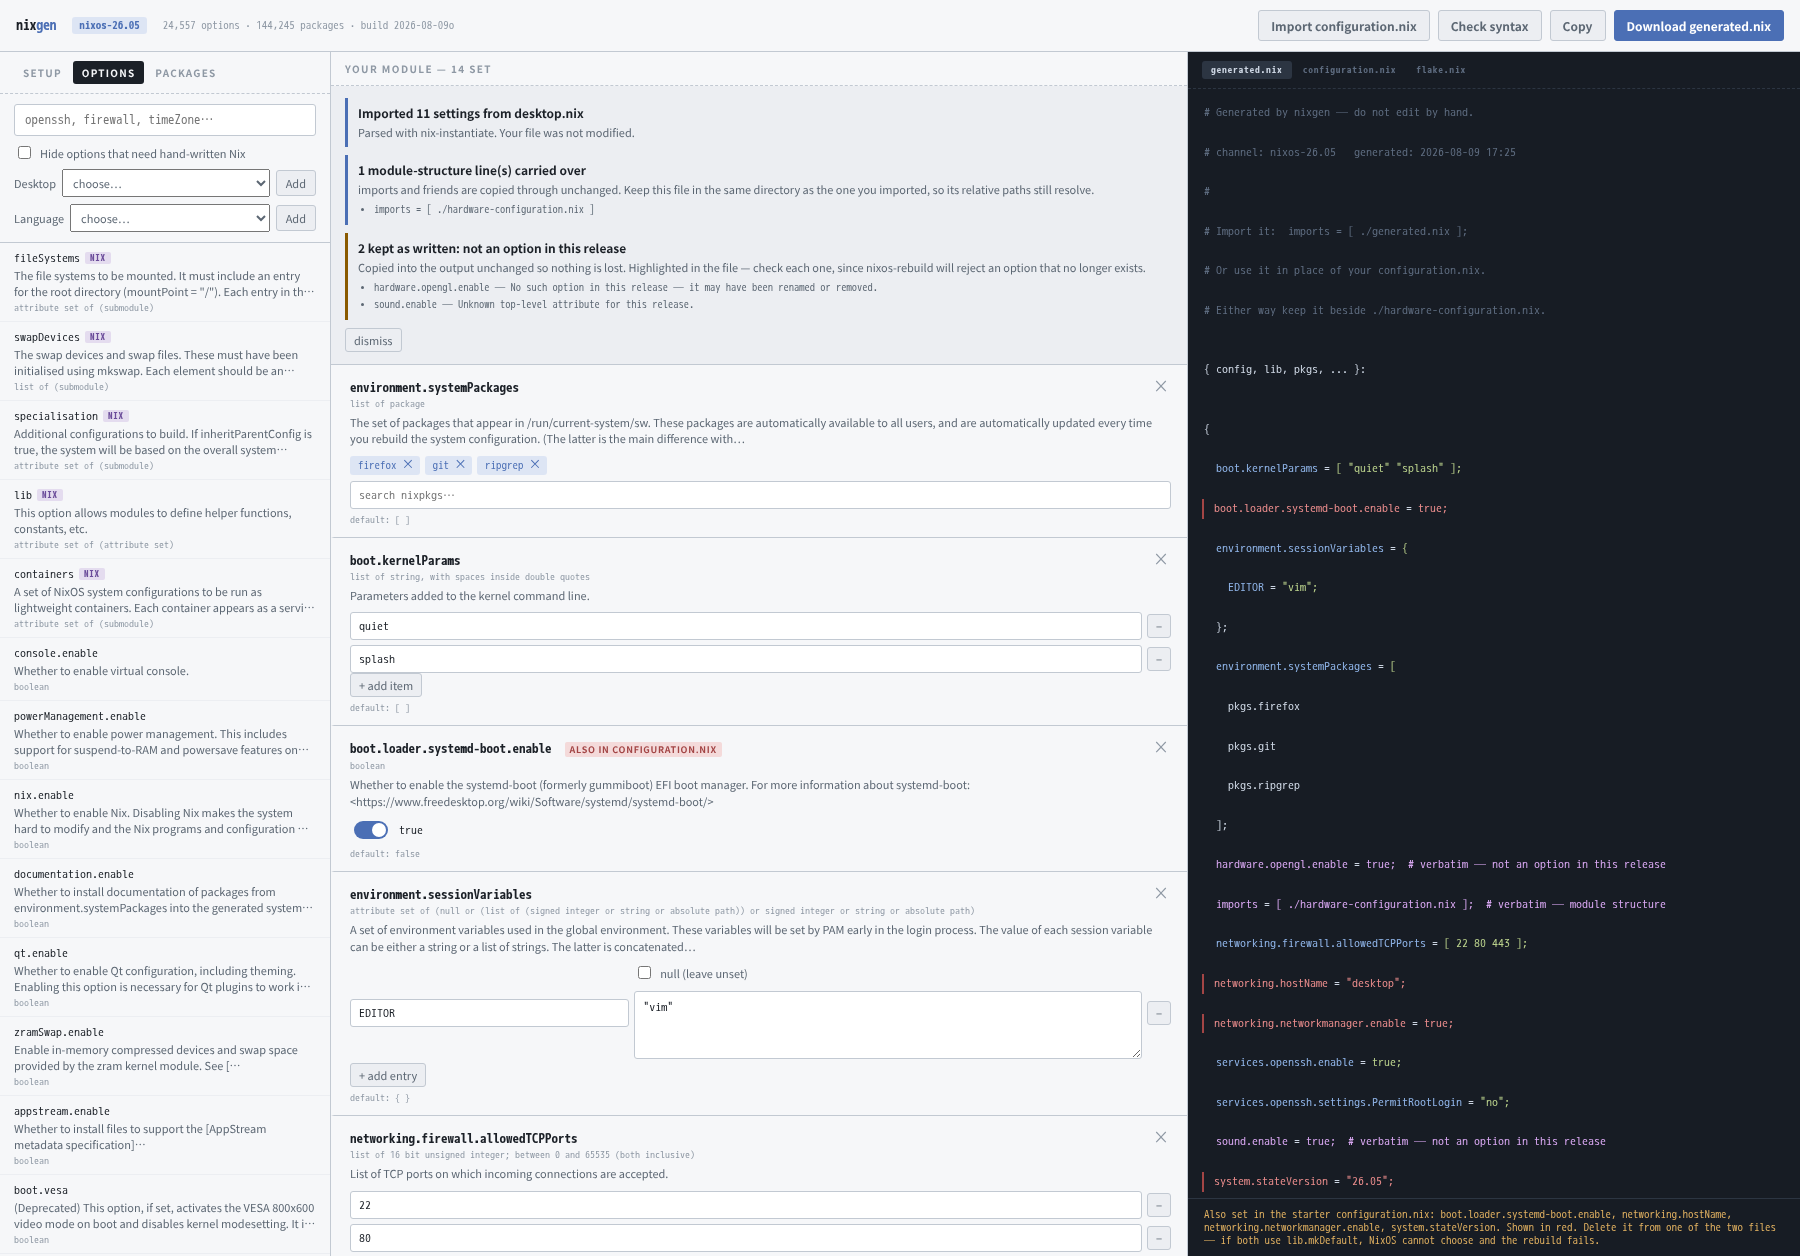
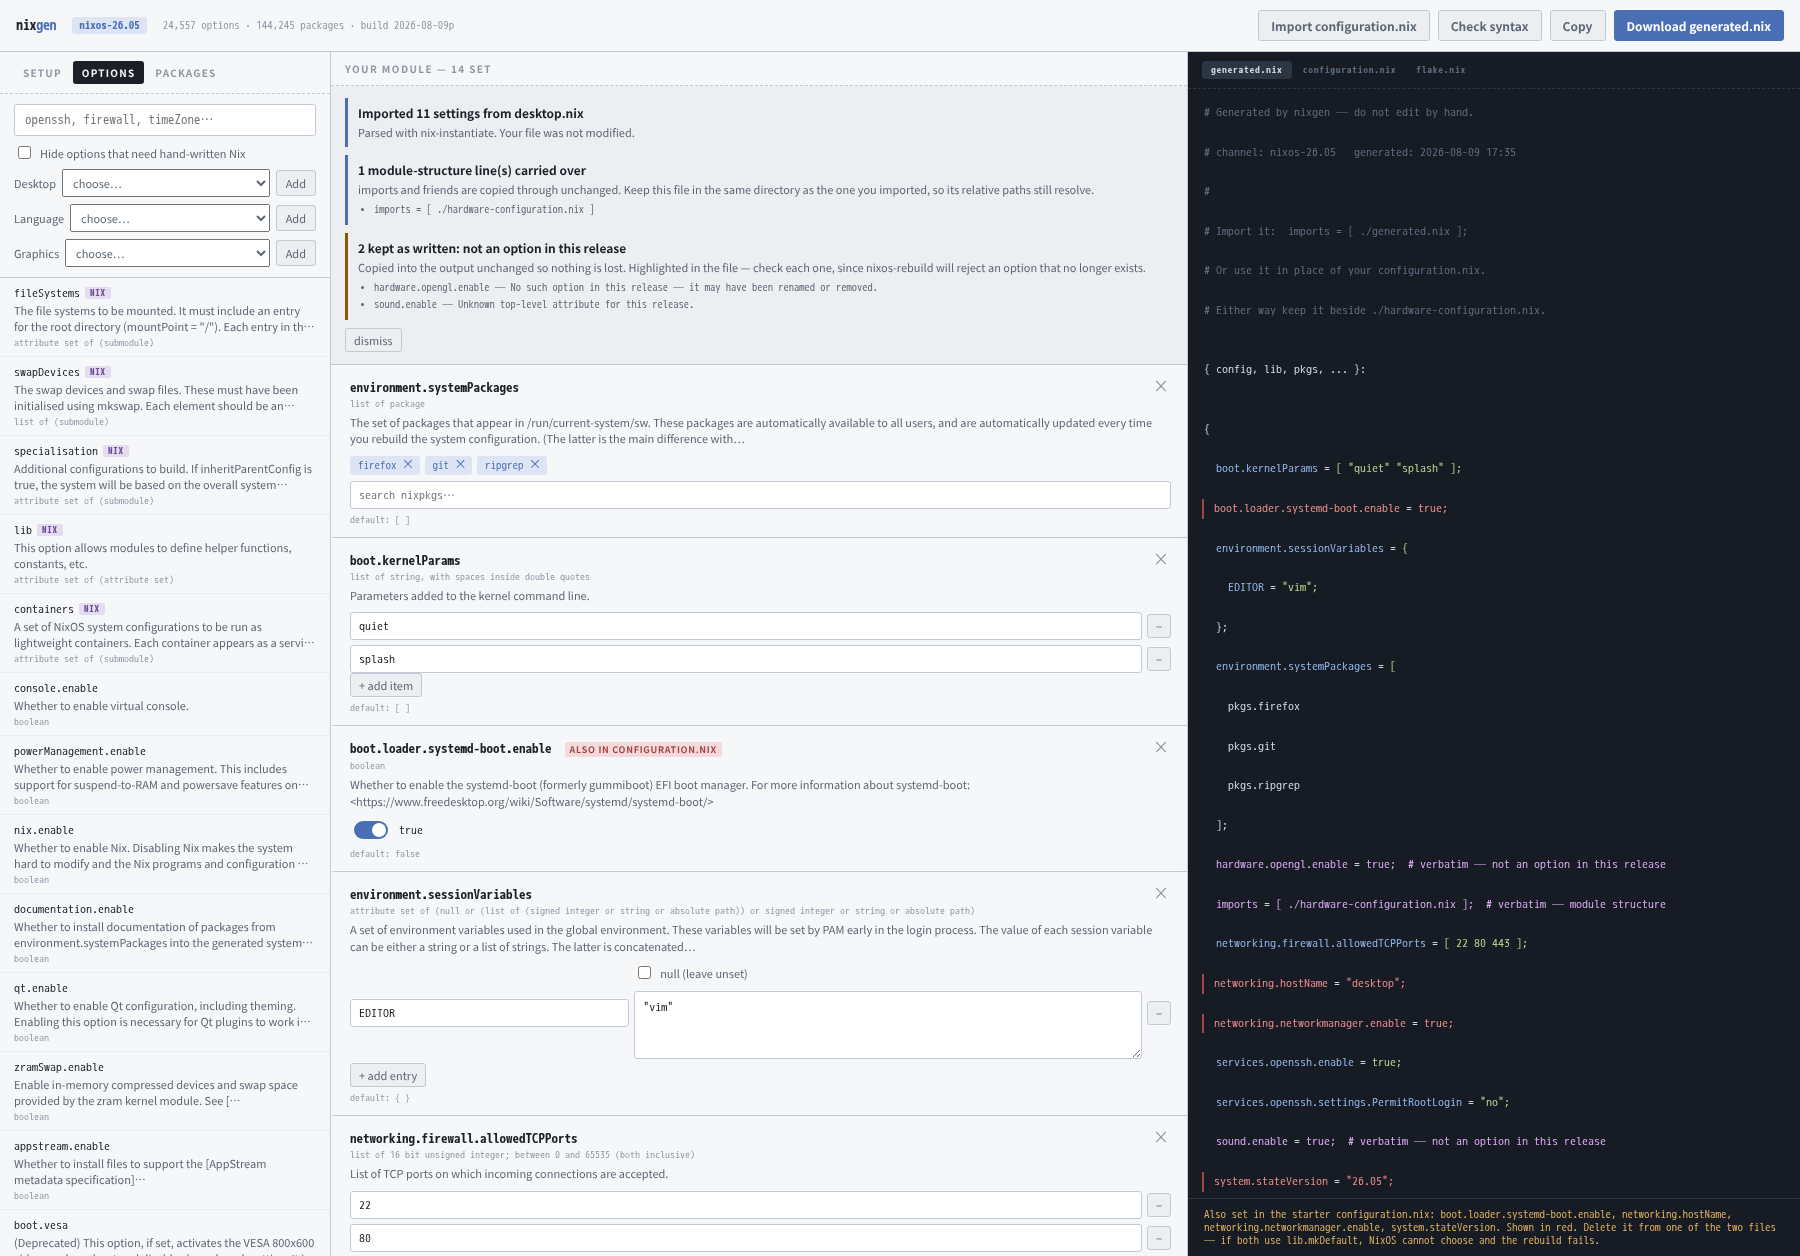
Set up a graphics driver from a dropdown
AMD, Intel or NVIDIA, beside the desktop and language ones. Each turns on
hardware.graphics and its 32-bit half — the second is what Steam and wine
need — and then does only what that card actually requires.

services.xserver.videoDrivers is set for NVIDIA alone, and the restraint is
the point. The default is modesetting, which is right for AMD and Intel on
any current kernel; naming the amdgpu X driver instead changes behaviour for
no gain. Intel gets a VAAPI driver because decoding does not work without
one, AMD needs nothing past mesa, and hardware.nvidia.open is set to false
rather than left computed, since true is wrong on anything before Turing.

The NVIDIA warning found a bug on its way in. Written from the preset it
disappeared on the next render: doRender clears a `todo` status when it has
no notes of its own. It is one of doRender's notes now, regenerated every
time, which is the only way a warning survives — and this one has to, because
the unfree reminder beside it reads environment.systemPackages and cannot see
a driver that arrives through a module.

All three built as NixOS systems and were read back: graphics on, 32-bit on,
videoDrivers modesetting for AMD and Intel and nvidia for NVIDIA,
intel-media-driver really in extraPackages, open really false. NVIDIA refuses
to evaluate without allowUnfree, which is the warning being right.

Changed region(s): [[0.0, 0.1863, 0.1867, 0.9936]]

diff --git a/build/static/app.js b/build/static/app.js
@@ -2,7 +2,7 @@
 
 /* Shown in the header. Bump it whenever this file changes, so "the fix did not
    work" can be told apart from "the old file is still being served". */
-const BUILD = '2026-08-09o';
+const BUILD = '2026-08-09p';
 
 const $  = (s, r = document) => r.querySelector(s);
 const $$ = (s, r = document) => [...r.querySelectorAll(s)];
@@ -161,6 +161,7 @@ function selectKind(kind) {
   $('#filterline').style.display = kind === 'options' ? '' : 'none';
   $('#presetline').style.display = kind === 'options' ? '' : 'none';
   $('#langline').style.display = kind === 'options' ? '' : 'none';
+  $('#gpuline').style.display = kind === 'options' ? '' : 'none';
   $('#appsline').style.display = kind === 'packages' ? '' : 'none';
   // Leaving the tab drops the category, so the dropdown never claims to be
   // describing a list that has since been replaced by a search.
@@ -741,6 +742,73 @@ $('#btn-lang').addEventListener('click', () => {
   if (key) addLanguage(key);
 });
 
+/* Graphics. `hardware.graphics.enable` is the part every card needs, and
+   enable32Bit is what makes Steam and wine work, so both go in whatever you
+   pick.
+
+   `services.xserver.videoDrivers` is set for NVIDIA only, and that is not an
+   oversight. The default is `modesetting`, which is the right answer for AMD
+   and Intel on any current kernel; forcing the amdgpu DDX instead is a change
+   with no upside and a history of regressions. NVIDIA is the one card whose
+   X driver genuinely has to be named.
+
+   Intel gets a VAAPI driver because hardware video decoding does not work
+   without one. AMD does not need it — mesa carries radeonsi — and NVIDIA's
+   is left out, since it only pays off with a browser configured to use it.
+
+   `hardware.nvidia.open` is set explicitly rather than left to its computed
+   default: `false` is the proprietary kernel module, which works on every
+   card the driver supports. `true` is faster to say and wrong on anything
+   before Turing. */
+const GPUS = {
+  amd: { label: 'AMD', extras: [] },
+  intel: { label: 'Intel', extras: ['intel-media-driver'] },
+  nvidia: { label: 'NVIDIA', extras: [], drivers: ['nvidia'],
+            nvidia: true },
+};
+
+async function addGpu(key) {
+  const g = GPUS[key];
+  if (!g) return;
+  const steps = [
+    { paths: ['hardware.graphics.enable', 'hardware.opengl.enable'], value: true },
+    { paths: ['hardware.graphics.enable32Bit', 'hardware.opengl.driSupport32Bit'],
+      value: true },
+  ];
+  if (g.extras.length) {
+    steps.push({ paths: ['hardware.graphics.extraPackages'], value: g.extras });
+  }
+  if (g.drivers) {
+    steps.push({ paths: ['services.xserver.videoDrivers'], value: g.drivers });
+  }
+  if (g.nvidia) {
+    steps.push(
+      { paths: ['hardware.nvidia.modesetting.enable'], value: true },
+      { paths: ['hardware.nvidia.open'], value: false });
+  }
+
+  const added = [], missing = [];
+  for (const step of steps) {
+    const used = await addWithValue(step.paths, step.value);
+    used ? added.push(used) : missing.push(step.paths[0]);
+  }
+  renderEditor();
+  pushRender();
+  // No unfree warning here on purpose — doRender raises it, and keeps
+  // raising it, which a message written once from this side would not.
+  if (missing.length) {
+    setStatus(`${g.label}: added ${added.length}, but this release has no ` +
+              `${missing.join(', ')}. Check the result before applying it.`, 'bad');
+  } else {
+    setStatus(`${g.label}: ${added.length} settings added.`, 'ok');
+  }
+}
+
+$('#btn-gpu').addEventListener('click', () => {
+  const key = $('#s-gpu').value;
+  if (key) addGpu(key);
+});
+
 /* A few representative packages per area, for when you know the kind of thing
    you want but not what it is called here. Every name was checked against the
    catalogue; ones nixpkgs has renamed are simply absent from the result rather
@@ -1269,6 +1337,15 @@ async function doRender() {
   if (unfree.length) {
     notes.push(`${unfree.join(', ')} ${unfree.length > 1 ? 'are' : 'is'} unfree. ` +
                `Set nixpkgs.config.allowUnfree = true; in your configuration.nix.`);
+  }
+  /* The NVIDIA driver is unfree, and the reminder above cannot see it: that
+     one watches environment.systemPackages, and this arrives through a
+     module. It belongs here rather than in a one-off message from the preset,
+     because a note that is regenerated on every render is one that cannot be
+     wiped by the next one — which is exactly what happened when it was. */
+  if (/^\s*hardware\.nvidia\./m.test(res.text)) {
+    notes.push(`The NVIDIA driver is unfree. Set nixpkgs.config.allowUnfree = ` +
+               `true; in your configuration.nix, or the build refuses it.`);
   }
   /* Steam runs from the package, but the module is what puts the 32-bit
      graphics drivers in place and can open the remote-play ports. Saying so

diff --git a/build/static/index.html b/build/static/index.html
@@ -71,6 +71,16 @@
           </select>
           <button class="mini" id="btn-lang">Add</button>
         </div>
+        <div class="presetline" id="gpuline">
+          <span>Graphics</span>
+          <select id="s-gpu">
+            <option value="">choose…</option>
+            <option value="amd">AMD</option>
+            <option value="intel">Intel</option>
+            <option value="nvidia">NVIDIA</option>
+          </select>
+          <button class="mini" id="btn-gpu">Add</button>
+        </div>
         <!-- Picking a category fills the results list, so what happens next is
              the same click as any search hit. Nothing is added on your behalf. -->
         <div class="presetline" id="appsline">

diff --git a/CHANGELOG.md b/CHANGELOG.md
@@ -9,6 +9,23 @@ option counts.
 
 ## English
 
+### build 2026-08-09p
+
+- **A graphics dropdown next to the desktop and language ones**: AMD, Intel or
+  NVIDIA. Each turns on `hardware.graphics` and its 32-bit half, which is what
+  Steam and wine need, and then does only what that card actually requires.
+- **Intel** also gets a VAAPI driver, because hardware video decoding does not
+  work without one. **AMD** gets nothing further — mesa already carries what it
+  needs. **NVIDIA** names its X driver, turns on modesetting, and sets
+  `hardware.nvidia.open = false`, the proprietary kernel module, which works on
+  every card the driver supports.
+- **`services.xserver.videoDrivers` is set for NVIDIA only.** That is not an
+  oversight: the default is `modesetting`, which is right for AMD and Intel on
+  any current kernel, and forcing the amdgpu X driver instead has no upside.
+- **Choosing NVIDIA now says the driver is unfree**, and keeps saying it. The
+  existing reminder only watches `environment.systemPackages`, and this arrives
+  through a module — without `allowUnfree` the build refuses outright.
+
 ### build 2026-08-09o
 
 - **The app categories grew, from a real configuration rather than a guess.**
@@ -290,6 +307,13 @@ three of these six showed up in only one of the two.
 ---
 
 ## 日本語
+
+### build 2026-08-09p
+
+- **デスクトップ・言語の隣に、グラフィックスのプルダウンを追加しました。** AMD・Intel・NVIDIA から選べます。どれを選んでも `hardware.graphics` と32bit側を有効にします(Steam や wine に必要です)。そのうえで、**そのカードに実際に必要なことだけ**を行います。
+- **Intel** には VAAPI ドライバも入れます。これが無いと動画のハードウェアデコードが働かないためです。**AMD** はこれ以上何も足しません。mesa が必要なものを持っているからです。**NVIDIA** はXのドライバ名を指定し、modesetting を有効にし、`hardware.nvidia.open = false`(プロプライエタリのカーネルモジュール)を設定します。**このドライバが対応する全カードで動く選択**です。
+- **`services.xserver.videoDrivers` を設定するのは NVIDIA だけです。** 手抜きではありません。既定の `modesetting` が、現行カーネルの AMD と Intel では正解です。**amdgpu のXドライバを強制しても得るものがありません。**
+- **NVIDIA を選ぶと、ドライバが unfree である旨を表示し続けます。** 既存の unfree 警告は `environment.systemPackages` しか見ておらず、こちらはモジュール経由で入るためです。`allowUnfree` が無いと**ビルドは拒否されます。**
 
 ### build 2026-08-09o
 

diff --git a/README.ja.md b/README.ja.md
@@ -221,6 +221,16 @@ rm -rf ~/.local/share/nixgen
 
 Steam はゲームの一覧に入っています。選ぶとステータス欄に案内が出ます。**パッケージとしても動きますが、`programs.steam.enable`(Options タブ)のほうが本筋です。** 32bit のグラフィックドライバを揃えるのはこちらで、リモートプレイのポート開放もできます。
 
+### グラフィックドライバを選ぶ
+
+**Options** タブには **Graphics** のプルダウンもあります。AMD・Intel・NVIDIA から選べます。どれを選んでも `hardware.graphics` と32bit側を有効にします。後者は **Steam や wine に必要**なものです。そのうえで、**そのカードに実際に必要なことだけ**を行います。
+
+Intel には VAAPI ドライバも入ります。これが無いと動画のハードウェアデコードが働きません。AMD はこれ以上足しません。mesa が持っているからです。NVIDIA はXのドライバ名を指定し、modesetting を有効にし、`hardware.nvidia.open = false`(プロプライエタリのカーネルモジュール)を設定します。**このドライバが対応する全カードで動く選択**です。
+
+`services.xserver.videoDrivers` を設定するのは NVIDIA だけです。既定は `modesetting` で、現行カーネルの AMD と Intel ではそれが正解だからです。
+
+**NVIDIAのドライバは unfree です。** 選ぶとその旨を表示し続けます。`nixpkgs.config.allowUnfree = true;` を設定しないと**ビルドが拒否されます。**
+
 ### 言語を選ぶ
 
 **Options** タブのデスクトップの隣に **Language** のプルダウンがあります。英語・日本語・フランス語・ドイツ語・スペイン語・韓国語・中国語から選べます。**選ぶだけで言語設定が完結します。** ロケール、コンソールのキーマップ、Xのキーボードレイアウトが入ります。日本語・韓国語・中国語では、**fcitx5 と対応する入力エンジン**も設定されます。この3言語は入力メソッド無しには打てないためです。

diff --git a/CLAUDE.md b/CLAUDE.md
@@ -218,6 +218,18 @@ at `nixos-rebuild`, which is the least helpful place for it to surface.
   fails at evaluation. It does not matter, because all three desktops already
   ship the CJK and emoji fonts; that was read out of an evaluated system, not
   assumed. **Not the time zone** either: a language is not a place.
+- **The graphics preset sets `videoDrivers` for NVIDIA and nothing else.** The
+  default is `modesetting`, which is correct for AMD and Intel on any current
+  kernel; naming the amdgpu X driver instead is a change with no upside. Intel
+  gets a VAAPI driver because decoding does not work without one, AMD needs
+  nothing beyond mesa, and `hardware.nvidia.open = false` is set rather than
+  left computed — `true` is wrong on anything before Turing.
+- **A warning that must survive belongs in `doRender`, not in the preset that
+  raised it.** The NVIDIA driver is unfree and the existing reminder cannot see
+  it, since that one reads `environment.systemPackages` and this arrives
+  through a module. Said once from the preset, it was wiped by the next render
+  — `doRender` clears a `todo` status when it has no notes of its own. Notes
+  regenerated on every render cannot be lost that way.
 - **The desktop presets name candidates, not paths.** `DESKTOPS` lists a few
   possible names per role and takes the first the catalogue has, because these
   have already moved once and asymmetrically: `gdm` and `sddm` left

diff --git a/README.md b/README.md
@@ -269,6 +269,24 @@ from the package, but `programs.steam.enable` under **Options** is the fuller
 way — that is what puts the 32-bit graphics drivers in place, and it can open
 the remote-play ports for you.
 
+### Picking a graphics driver
+
+**Options** has a **Graphics** dropdown too: AMD, Intel or NVIDIA. Each turns on
+`hardware.graphics` and its 32-bit half — that second one is what Steam and wine
+need — and then does only what the card actually requires.
+
+Intel also gets a VAAPI driver, because hardware video decoding does not work
+without one. AMD gets nothing further: mesa already carries it. NVIDIA names its
+X driver, turns on modesetting, and sets `hardware.nvidia.open = false`, the
+proprietary kernel module, which works on every card the driver supports.
+
+`services.xserver.videoDrivers` is set for NVIDIA only. The default is
+`modesetting`, and on any current kernel that is the right answer for AMD and
+Intel.
+
+**The NVIDIA driver is unfree.** Picking it says so and keeps saying so — set
+`nixpkgs.config.allowUnfree = true;` or the build refuses.
+
 ### Picking a language
 
 Next to the desktop dropdown under **Options** is a **Language** one: English,
